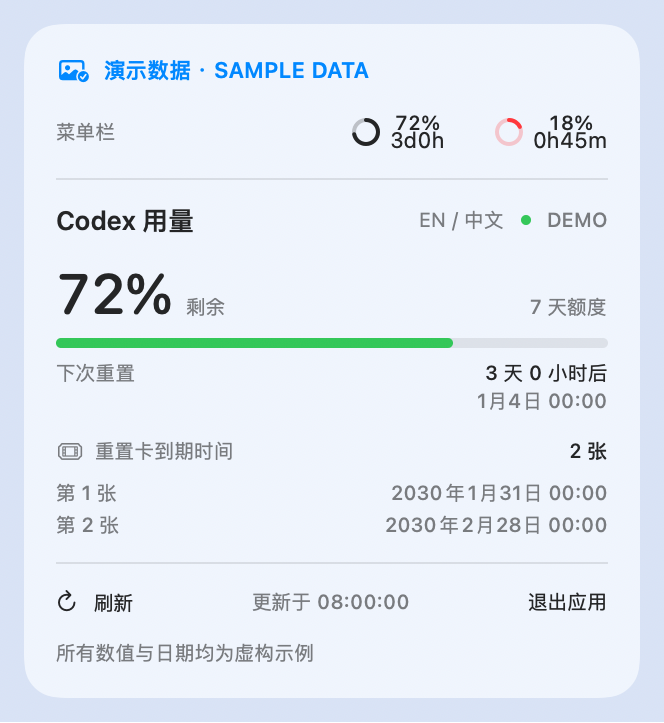
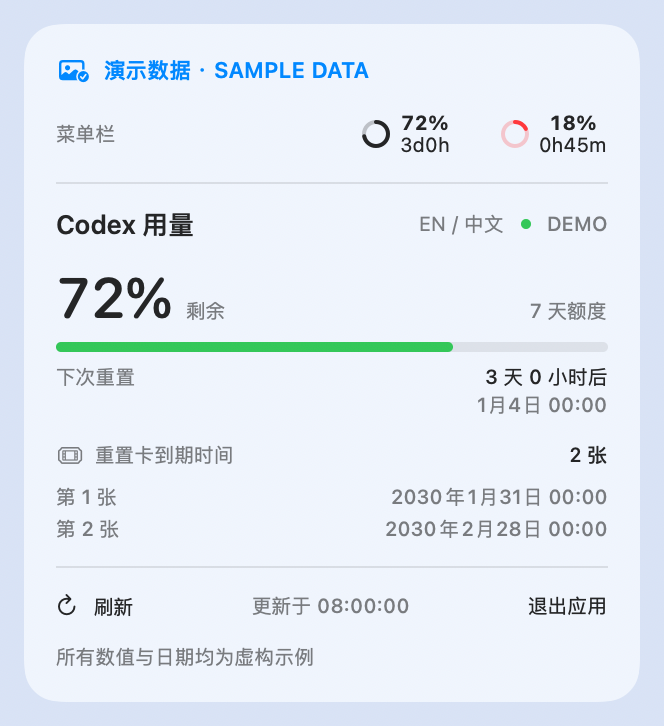
Refine menu bar typography for v1.8.2

diff --git a/Sources/CodexUsage/Services/StatusItemController.swift b/Sources/CodexUsage/Services/StatusItemController.swift
@@ -99,8 +99,8 @@ private final class StatusItemContent: NSStackView {
         ring.imageScaling = .scaleNone
         ring.contentTintColor = .labelColor
         ring.setAccessibilityElement(false)
-        percent.font = .monospacedDigitSystemFont(ofSize: 10, weight: .medium)
-        countdown.font = .monospacedDigitSystemFont(ofSize: 11, weight: .regular)
+        percent.font = .monospacedDigitSystemFont(ofSize: 10, weight: .bold)
+        countdown.font = .monospacedDigitSystemFont(ofSize: 10, weight: .regular)
         for label in [percent, countdown] {
             label.alignment = .center
             label.setAccessibilityElement(false)
@@ -110,7 +110,8 @@ private final class StatusItemContent: NSStackView {
         labels.orientation = .vertical
         labels.alignment = .centerX
         labels.distribution = .fill
-        labels.spacing = -5 // Keep both label frames within a 22-point status item.
+        // Overlap the text fields' padding while leaving a gap between their glyphs.
+        labels.spacing = -2
         addArrangedSubview(ring)
         addArrangedSubview(labels)
     }

diff --git a/script/render_demo.swift b/script/render_demo.swift
@@ -20,9 +20,9 @@ struct DemoImage {
         HStack(spacing: 4) {
             Image(nsImage: StatusItemRing.image(for: ring))
                 .renderingMode(ring.isLow ? .original : .template)
-            VStack(spacing: -5) {
-                Text(percentage).font(.system(size: 10, weight: .medium).monospacedDigit())
-                Text(countdown).font(.system(size: 11).monospacedDigit())
+            VStack(spacing: -2) {
+                Text(percentage).font(.system(size: 10, weight: .bold).monospacedDigit())
+                Text(countdown).font(.system(size: 10).monospacedDigit())
             }
         }
     }

diff --git a/README.en.md b/README.en.md
@@ -4,7 +4,7 @@
 
 Check your Codex remaining quota, reset times, and reset-card expiry dates from the macOS menu bar.
 
-**Current recommended release is 1.8.1 (build 15).**
+**Current recommended release is 1.8.2 (build 16).**
 
 **[Download the latest version](https://github.com/ccrrfftt/codex-usage-menubar/releases/latest)**
 
@@ -14,7 +14,7 @@ Check your Codex remaining quota, reset times, and reset-card expiry dates from 
 
 Screenshot uses fictional demo data only.
 
-- **Menu bar quota and reset.** The ring follows your remaining allowance and turns red below 20%. The percentage appears above the countdown for the same quota window. Click for details.
+- **Menu bar quota and reset.** The ring follows your remaining allowance and turns red below 20%. The bold percentage and its reset countdown are centered on separate lines. Click for details.
 - **Reset cards:** view the available count and each card's expiry date.
 - **Chinese and English:** click **EN / 中文** at the top right of the panel. Your choice is remembered.
 - **Automatic updates:** every minute on AC power, every 5 minutes on battery; paused while asleep or offline.

diff --git a/DEVELOPMENT.md b/DEVELOPMENT.md
@@ -5,6 +5,7 @@
 - 优先读取 `rateLimitsByLimitId`；不存在时兼容旧的 `rateLimits`。
 - 剩余比例按 `100 - usedPercent` 计算，限制在 0–100%。缺失数据展示为 `—`。
 - 主数字显示 Codex 主额度中剩余比例最低的周期；同一周期的重置倒计时显示在第二行。一天及以上显示 `2d3h`，不足一天显示 `2h15m`，不足一小时显示 `0h45m`。缺失或已到期的倒计时显示 `—`。
+- 菜单栏两行文字以 10 pt 居中对齐，百分比使用粗体，倒计时使用常规字重。
 - 菜单栏圆环与主数字共用剩余额度：从顶部顺时针绘制，100% 为满环，0% 为空环；严格低于 20% 时显示红色，未知额度为空的中性环。
 - 圆环为 16 × 16 pt 矢量图，正常状态使用系统模板图适应菜单栏外观；只有比例变化时才重新生成。
 - 自动刷新频率只取决于供电状态，展开或收起菜单不改变频率，也不延后已安排的更新；仍可点击“刷新”立即更新。

diff --git a/README.md b/README.md
@@ -4,7 +4,7 @@
 
 在 Mac 顶部菜单栏查看 Codex 剩余额度、重置时间和重置卡到期日期。
 
-**当前推荐版本 1.8.1（build 15）**
+**当前推荐版本 1.8.2（build 16）**
 
 **[下载最新版](https://github.com/ccrrfftt/codex-usage-menubar/releases/latest)**
 
@@ -14,7 +14,7 @@
 
 截图仅使用虚构演示数据。
 
-- **菜单栏额度与倒计时。** 圆环随剩余比例变化，低于 20% 变红。百分比在第一行，同一周期的重置倒计时在第二行。点击展开详情。
+- **菜单栏额度与倒计时。** 圆环随剩余比例变化，低于 20% 变红。粗体百分比与同一周期的重置倒计时分两行居中显示。点击展开详情。
 - **查看重置卡**：显示可用数量，以及每张卡的到期时间。
 - **中英文切换**：在面板右上角点击「EN / 中文」，自动记住上次选择。
 - **按供电状态刷新**：插电每 1 分钟，电池每 5 分钟；休眠、离线时暂停。

diff --git a/CHANGELOG.md b/CHANGELOG.md
@@ -1,5 +1,9 @@
 # 更新记录
 
+## 1.8.2 · 2026-11-24
+
+- 菜单栏的剩余百分比与重置倒计时采用相同字号。百分比加粗，两行居中对齐并增加间距。
+
 ## 1.8.1 · 2026-11-24
 
 - 放大菜单栏的重置倒计时，缩短它与上方剩余百分比之间的距离。
